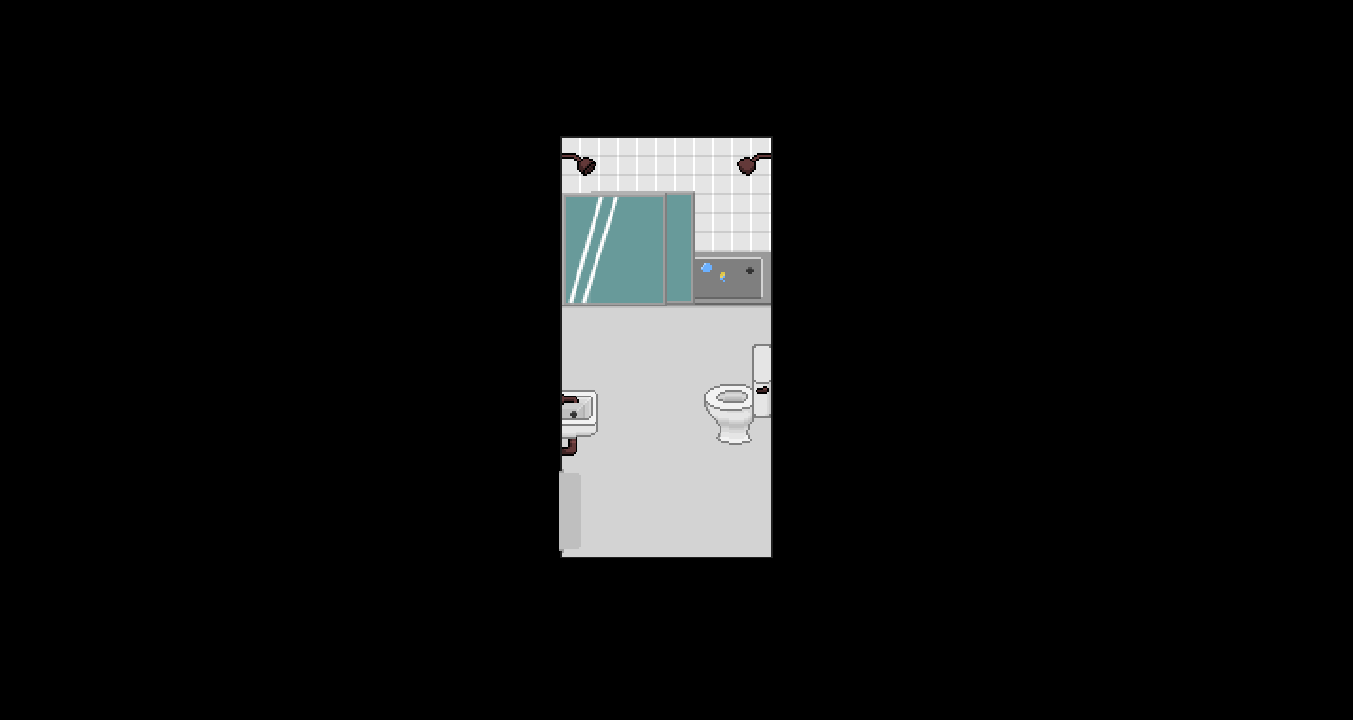
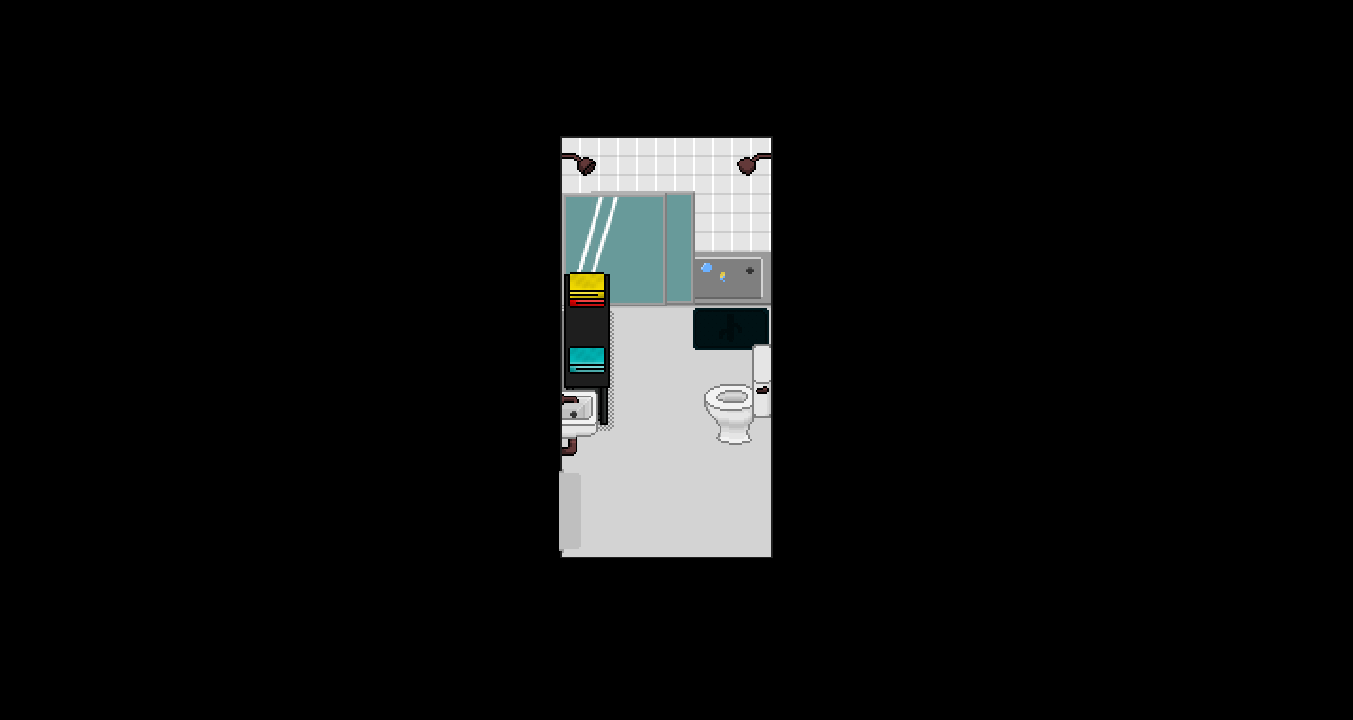
v.0.2.3 - ajouts sdb, hitbox opacité
ajouts meuble sdb, opacité 50% sur les hitbox et ajout dans le debug mode

Changed region(s): [[0.4035, 0.3667, 0.4656, 0.6111], [0.4967, 0.4278, 0.5898, 0.4889]]

diff --git a/blue-bird-rpg/classes.py b/blue-bird-rpg/classes.py
@@ -82,7 +82,19 @@ class Main_Menu():
             self.window.blit(self.text_title,(get_lefttop(self.text_title,self.window,0)[0],100))
             self.window.blit(self.text_undertitle, (800,180))   #beta
 
-
+class Settings():
+    def __init__(self):
+        self.key_up = 122
+        self.key_down = 115
+        self.key_left = 113
+        self.key_right = 100
+        self.key_debug = 119
+        print(self.key_up)
+        print(self.key_down)
+        print(self.key_left)
+        print(self.key_right)
+        print(self.key_debug)
+        print("Settings chargés")
 
 def get_lefttop(frontbox, backbox, AlreadyRect):    #frontbox: texte par exemple, backbox: bouton par exemple
     if AlreadyRect == 0:    # 0 = aucun deja rect
@@ -204,6 +216,7 @@ class Player(pygame.sprite.Sprite):
         #            bas        haut        gauche         droite
 
     def __init__(self, game):
+        self.settings = Settings()
         self.game = game
         pygame.sprite.Sprite.__init__(self)
         pos = data_map[self.game.room_name][4]
@@ -227,8 +240,8 @@ class Player(pygame.sprite.Sprite):
             if room == "chambre_celeste":
                 self.game.room_name = "sdb_chambre_celeste"
                 self.game.above_sprite = None
-                # self.rect[0], self.rect[1] = 580,460
                 pos = (540,460)
+                # self.rect[0], self.rect[1] = 580,460
             elif room == "sdb_chambre_celeste":
                 self.game.room_name = "chambre_celeste"
                 self.game.above_sprite = None
@@ -265,8 +278,8 @@ class Player(pygame.sprite.Sprite):
         elif sens == "right":
             hit[0] += self.game.hitbox.get_at((int(xx),int(y)))
             hit[1] += self.game.hitbox.get_at((int(xx),int(yy)))
-            #du 1er au 3e NON INCLUS
-        if hit[0][0:3] == (255,255,255) and hit[1] == (255,255,255):    #couleur blanche, aucun above
+            #du 1er au 3e NON INCLUS 
+        if hit[0][0:3] == (255, 255, 255) and hit[1][0:3] == (255, 255, 255):    #couleur blanche, aucun above
             self.game.above_sprite = None
             return "can_move"
         elif hit[0][0:3] == (255,0,0) and hit[1][0:3] == (255,0,0):      #couleur rouge, above 1
@@ -275,14 +288,16 @@ class Player(pygame.sprite.Sprite):
         elif hit[0][0:3] == (255,106,0) and hit[1][0:3] == (255,106,0):    #couleur orange, above 2
             self.game.above_sprite = self.game.above_sprite_list[1]
             return "can_move"
-        elif hit[0] == (255,216,0) and hit[1] == (255,216,0):         #couleur jaune, above 3
+        elif hit[0][0:3] == (255,216,0) and hit[1][0:3] == (255,216,0):         #couleur jaune, above 3
             self.game.above_sprite = self.game.above_sprite_list[2]
-        
-        if (255,0,110) in hit:      #rose/violet, porte 1
+        #Portes
+        if hit[0][0:3] == (255,0,110) or hit[1][0:3] == (255,0,110):      #rose/violet, porte 1
             self.change_room(self.game.room_name, 1)
         elif (255,110,110) in hit:  # , porte 2
             pass
-
+        # print(hit[0])
+        # print(hit[1])
+        
     def update(self,time, keys):
         self.deltaTime = self.deltaTime + time
         if keys[pygame.K_LSHIFT]:
@@ -292,7 +307,7 @@ class Player(pygame.sprite.Sprite):
         if self.deltaTime >= sprite_time:   #depuis le dernier changement de sprite
             self.deltaTime = 0
             self.move_key_last = self.move_key
-            self.move_key = [keys[pygame.K_a], keys[pygame.K_d], keys[pygame.K_w], keys[pygame.K_s]]
+            self.move_key = [keys[self.settings.key_up], keys[self.settings.key_down], keys[self.settings.key_left], keys[self.settings.key_right]]
 
             if self.move_key_last == self.move_key and self.move_key != [0,0,0,0]:
                 
@@ -323,8 +338,8 @@ class Player(pygame.sprite.Sprite):
             self.move_sprite = (self.vitesse,0)
             if self.sens in ["up", "down"]:
                 self.rect[0] += 11
-                self.rect_pieds[0] += 6
-                self.rect_pieds[2] -= 12
+                # self.rect_pieds[0] += 6
+                # self.rect_pieds[2] -= 12
             self.sens = "right"
         else:
             pass
@@ -341,8 +356,8 @@ class Player(pygame.sprite.Sprite):
             self.move_sprite = (-self.vitesse,0)
             if self.sens in ["up", "down"]:
                 self.rect[0] += 11
-                self.rect_pieds[0] += 6
-                self.rect_pieds[2] -= 12
+                # self.rect_pieds[0] += 6
+                # self.rect_pieds[2] -= 12
             self.sens = "left"
         else:
             pass
@@ -360,8 +375,8 @@ class Player(pygame.sprite.Sprite):
             self.move_sprite = (0,-self.vitesse)
             if self.sens in ["left", "right"]:
                 self.rect[0] -= 11
-                self.rect_pieds[0] -= 6
-                self.rect_pieds[2] += 12
+                # self.rect_pieds[0] -= 6
+                # self.rect_pieds[2] += 12
             self.sens = "up"
         else:
             pass
@@ -379,8 +394,8 @@ class Player(pygame.sprite.Sprite):
             self.move_sprite = (0,self.vitesse)
             if self.sens in ["left", "right"]:
                 self.rect[0] -= 11
-                self.rect_pieds[0] -= 6
-                self.rect_pieds[2] += 12
+                # self.rect_pieds[0] -= 6
+                # self.rect_pieds[2] += 12
             self.sens = "down"
         else:
             pass

diff --git a/blue-bird-rpg/blue-bird-rpg.py b/blue-bird-rpg/blue-bird-rpg.py
@@ -17,11 +17,11 @@ pygame.display.set_icon(Icon)
 pygame.display.set_caption(Title)
 pygame.key.set_repeat(1, 30)
 
-last_press_w = 0
+last_press_debug = 0
 
 while status.on_app:
     pygame.time.Clock().tick(30)    # boucle 30x /s
-
+    settings = Settings()
     status.on_main_menu = 1
     main_menu = Main_Menu(window) #Init
 
@@ -65,26 +65,26 @@ while status.on_app:
             perso.vitesse = int(round(100/FPS)) + 2
         else:
             perso.vitesse = int(round(100/FPS))
-        if keys[pygame.K_d]:
+        if keys[settings.key_right]:
             perso.moveRight()
 
-        elif keys[pygame.K_a]:
+        elif keys[settings.key_left]:
             perso.moveLeft()
 
-        elif keys[pygame.K_w]:
+        elif keys[settings.key_up]:
             perso.moveUp()
 
-        elif keys[pygame.K_s]:
+        elif keys[settings.key_down]:
             perso.moveDown()
 
         #debug mode
-        last_press_w += time
-        if keys[pygame.K_z] and last_press_w > 150 and debug_mode:
+        last_press_debug += time
+        if keys[settings.key_debug] and last_press_debug > 150 and debug_mode:
             debug_mode = False
-            last_press_w = 0
-        elif keys[pygame.K_z] and last_press_w > 150:
+            last_press_debug = 0
+        elif keys[settings.key_debug] and last_press_debug > 150:
             debug_mode = True
-            last_press_w = 0
+            last_press_debug = 0
 
         for event in pygame.event.get():
             if event.type == QUIT:
@@ -94,19 +94,19 @@ while status.on_app:
         perso.update(time, keys)
         window.fill((0,0,0))    #black screen arriere plan
         window.blit(game.background, (game.pos_background)) #background 
-        # print(game.background.get_rect())
-        # print(get_lefttop(game.background, window, 0))
+        if debug_mode:  #sous celeste
+            window.blit(game.hitbox, game.pos_background)
         
-        window.blit(perso.image, perso.pos_img)
+        window.blit(perso.image, perso.pos_img) #sprite celeste
+
         if game.above_sprite:   #si un above_sprite est defini
             window.blit(game.above_sprite, (game.pos_background))
 
-        if debug_mode:
-            opacité_hitbox = pygame.Surface((int(game.hitbox.get_rect()[0]), int(game.hitbox.get_rect()[1])))
-            opacité_hitbox.set_alpha(50)
-            opacité_hitbox.blit(game.hitbox, (0,0))
-            window.blit(opacité_hitbox, (game.pos_background))
+        if debug_mode:  #au dessus de celeste
             pygame.draw.rect(window, (0,255,0), perso.rect, 2)
             pygame.draw.rect(window, (255,0,0), perso.rect_pieds, 2)
             pygame.draw.rect(window, (0,0,255), (perso.pos_img[0], perso.pos_img[1], perso.image.get_rect()[2],perso.image.get_rect()[3]), 2)
+
+
+
         pygame.display.flip()
